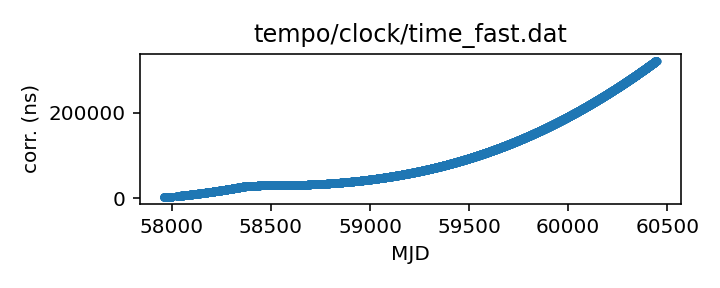
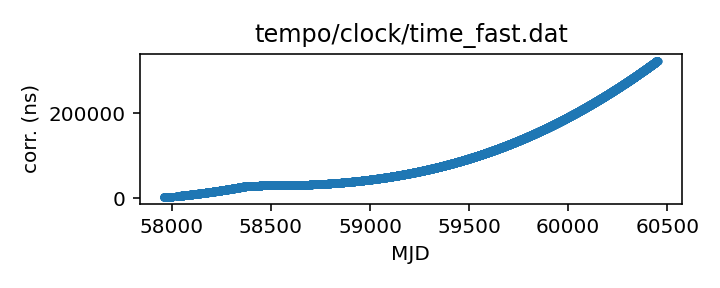
Routine gh-pages update from Github action Fri May 24 20:30:05 UTC 2024

Changed region(s): [[0.3361, 0.0625, 0.7944, 0.1562], [0.0611, 0.3438, 0.1833, 0.4375]]

diff --git a/status.md b/status.md
@@ -13,18 +13,18 @@ name of each clock file links to a page with more details.
 
 | Name | File | Corrections start | Corrections end | Last check date | Last check result 
 |:--- |:--- | --- | --- | --- |:--- 
-| [GPS to UTC](T2runtime/clock/gps2utc.clk.html) | `T2runtime/clock/gps2utc.clk` | 1993-01-01 MJD 48988.0 | 2024-04-29 MJD 60429.0 | 2024-05-23 | Unchanged 
-| [GPS to UTC (Combined Clock)](T2runtime/clock/gps2utc_cc.clk.html) | `T2runtime/clock/gps2utc_cc.clk` | 1993-01-01 MJD 48988.0 | 2024-04-29 MJD 60429.0 | 2024-05-23 | Unchanged 
-| [GPS to UTC (Corrected)](T2runtime/clock/gps2utc_c0p.clk.html) | `T2runtime/clock/gps2utc_c0p.clk` | 2010-12-29 MJD 55559.0 | 2024-04-29 MJD 60429.0 | 2024-05-23 | Unchanged 
-| [GBT](tempo/clock/time_gbt.dat.html) | `tempo/clock/time_gbt.dat` | 2000-12-31 MJD 51909.5 | 2024-05-18 MJD 60448.5 | 2024-05-23 | **Validation failed** 
+| [GPS to UTC](T2runtime/clock/gps2utc.clk.html) | `T2runtime/clock/gps2utc.clk` | 1993-01-01 MJD 48988.0 | 2024-04-29 MJD 60429.0 | 2024-05-24 | Unchanged 
+| [GPS to UTC (Combined Clock)](T2runtime/clock/gps2utc_cc.clk.html) | `T2runtime/clock/gps2utc_cc.clk` | 1993-01-01 MJD 48988.0 | 2024-04-29 MJD 60429.0 | 2024-05-24 | Unchanged 
+| [GPS to UTC (Corrected)](T2runtime/clock/gps2utc_c0p.clk.html) | `T2runtime/clock/gps2utc_c0p.clk` | 2010-12-29 MJD 55559.0 | 2024-04-29 MJD 60429.0 | 2024-05-24 | Unchanged 
+| [GBT](tempo/clock/time_gbt.dat.html) | `tempo/clock/time_gbt.dat` | 2000-12-31 MJD 51909.5 | 2024-05-18 MJD 60448.5 | 2024-05-24 | **Validation failed** 
 | [GBT (TEMPO2 converted from TEMPO)](T2runtime/clock/gbt2gps.clk.html) | `T2runtime/clock/gbt2gps.clk` | 2000-12-31 MJD 51909.5 | 2024-05-18 MJD 60448.5 | 2024-05-19 | Updated 
-| [Jodrell Bank](T2runtime/clock/jb2gps.clk.html) | `T2runtime/clock/jb2gps.clk` | 2006-10-13 MJD 54021.4 | 2023-12-04 MJD 60282.0 | 2024-05-17 | Unchanged 
-| [Jodrell Bank Roach](T2runtime/clock/jbroach2jb.clk.html) | `T2runtime/clock/jbroach2jb.clk` | 2006-10-13 MJD 54021.4 | 2018-03-20 MJD 58197.6 | 2024-05-17 | Unchanged 
-| [Jodrell Bank DFB](T2runtime/clock/jbdfb2jb.clk.html) | `T2runtime/clock/jbdfb2jb.clk` | 2006-10-13 MJD 54021.4 | 2017-05-11 MJD 57884.0 | 2024-05-17 | Unchanged 
-| [Meerkat (observatory)](T2runtime/clock/mk2utc_observatory.clk.html) | `T2runtime/clock/mk2utc_observatory.clk` | 2019-01-01 MJD 58484.0 | 2024-04-24 MJD 60425.0 | 2024-05-17 | Unchanged 
-| [Leap seconds](tempo/clock/leap.sec.html) | `tempo/clock/leap.sec` | 1972-07-01 MJD 41499.0 | 2017-01-01 MJD 57754.0 | 2024-05-23 | Unchanged 
-| [UT1 table](tempo/clock/ut1.dat.html) | `tempo/clock/ut1.dat` | 1973-01-02 MJD 41684.0 | 2025-05-31 MJD 60826.0 | 2024-05-23 | Updated 
-| [UT1 table](T2runtime/clock/ut1.dat.html) | `T2runtime/clock/ut1.dat` | 1973-01-02 MJD 41684.0 | 2025-05-31 MJD 60826.0 | 2024-05-23 | Updated 
+| [Jodrell Bank](T2runtime/clock/jb2gps.clk.html) | `T2runtime/clock/jb2gps.clk` | 2006-10-13 MJD 54021.4 | 2023-12-04 MJD 60282.0 | 2024-05-24 | Unchanged 
+| [Jodrell Bank Roach](T2runtime/clock/jbroach2jb.clk.html) | `T2runtime/clock/jbroach2jb.clk` | 2006-10-13 MJD 54021.4 | 2018-03-20 MJD 58197.6 | 2024-05-24 | Unchanged 
+| [Jodrell Bank DFB](T2runtime/clock/jbdfb2jb.clk.html) | `T2runtime/clock/jbdfb2jb.clk` | 2006-10-13 MJD 54021.4 | 2017-05-11 MJD 57884.0 | 2024-05-24 | Unchanged 
+| [Meerkat (observatory)](T2runtime/clock/mk2utc_observatory.clk.html) | `T2runtime/clock/mk2utc_observatory.clk` | 2019-01-01 MJD 58484.0 | 2024-04-24 MJD 60425.0 | 2024-05-24 | Unchanged 
+| [Leap seconds](tempo/clock/leap.sec.html) | `tempo/clock/leap.sec` | 1972-07-01 MJD 41499.0 | 2017-01-01 MJD 57754.0 | 2024-05-24 | Unchanged 
+| [UT1 table](tempo/clock/ut1.dat.html) | `tempo/clock/ut1.dat` | 1973-01-02 MJD 41684.0 | 2025-05-31 MJD 60826.0 | 2024-05-24 | Unchanged 
+| [UT1 table](T2runtime/clock/ut1.dat.html) | `T2runtime/clock/ut1.dat` | 1973-01-02 MJD 41684.0 | 2025-05-31 MJD 60826.0 | 2024-05-24 | Unchanged 
 
 
 
@@ -67,26 +67,26 @@ name of each clock file links to a page with more details.
 
 | Name | File | Corrections start | Corrections end | Last check date | Last check result 
 |:--- |:--- | --- | --- | --- |:--- 
-| [GPS to UTC (TEMPO2)](T2runtime/clock/gps2utc_tempo2.clk.html) | `T2runtime/clock/gps2utc_tempo2.clk` | 1996-03-27 MJD 50169.0 | 2022-10-27 MJD 59879.0 | 2024-05-17 | **Failed to download** 
-| [GBT (TEMPO2)](T2runtime/clock/gbt2gps_tempo2.clk.html) | `T2runtime/clock/gbt2gps_tempo2.clk` | 2000-12-31 MJD 51909.5 | 2020-02-25 MJD 58904.5 | 2024-05-17 | Unchanged 
-| [Jodrell Bank (TEMPO)](tempo/clock/time_jb.dat.html) | `tempo/clock/time_jb.dat` | 2006-10-13 MJD 54021.4 | 2019-05-13 MJD 58616.2 | 2024-05-17 | Unchanged 
-| [VLA](tempo/clock/time_vla.dat.html) | `tempo/clock/time_vla.dat` | 1990-10-27 MJD 48191.2 | 2021-03-07 MJD 59280.5 | 2024-05-17 | Unchanged 
-| [VLA (TEMPO2)](T2runtime/clock/vla2gps.clk.html) | `T2runtime/clock/vla2gps.clk` | 2015-02-01 MJD 57054.6 | 2021-03-07 MJD 59280.5 | 2024-05-17 | Unchanged 
-| [VLA to NIST](T2runtime/clock/vla2nist.clk.html) | `T2runtime/clock/vla2nist.clk` | 1990-10-27 MJD 48191.2 | 1993-11-13 MJD 49304.0 | 2024-05-17 | Unchanged 
-| [FAST](tempo/clock/time_fast.dat.html) | `tempo/clock/time_fast.dat` | 2017-07-27 MJD 57961.0 | 2024-05-15 MJD 60446.0 | 2024-05-17 | Updated 
-| [WSRT](T2runtime/clock/wsrt2gps.clk.html) | `T2runtime/clock/wsrt2gps.clk` | 1999-01-01 MJD 51179.5 | 2015-06-29 MJD 57202.1 | 2024-05-17 | Unchanged 
-| [WSRT (TEMPO)](tempo/clock/time_wsrt.dat.html) | `tempo/clock/time_wsrt.dat` | 1987-07-24 MJD 47000.0 | 2007-12-24 MJD 54458.0 | 2024-05-17 | **Validation failed** 
-| [Parkes](T2runtime/clock/pks2gps.clk.html) | `T2runtime/clock/pks2gps.clk` | 1858-11-17 MJD 0.0 | 2024-04-30 MJD 60430.1 | 2024-05-17 | Unchanged 
-| [Parkes (TEMPO)](tempo/clock/time_pks.dat.html) | `tempo/clock/time_pks.dat` | 1979-05-07 MJD 44000.0 | 2011-07-03 MJD 55745.8 | 2024-05-17 | **Validation failed** 
-| [SRT](T2runtime/clock/srt2gps.clk.html) | `T2runtime/clock/srt2gps.clk` | 2013-03-20 MJD 56371.0 | 2019-12-11 MJD 58828.0 | 2024-05-17 | Unchanged 
-| [Effelsberg](T2runtime/clock/eff2gps.clk.html) | `T2runtime/clock/eff2gps.clk` | 1993-11-29 MJD 49320.0 | 2015-06-22 MJD 57195.5 | 2024-05-17 | Unchanged 
-| [Effelsberg Asterix/PSRix](T2runtime/clock/effix2gps.clk.html) | `T2runtime/clock/effix2gps.clk` | 2011-01-01 MJD 55562.5 | 2021-03-21 MJD 59294.5 | 2024-05-17 | Unchanged 
-| [LEAP](T2runtime/clock/leap2effix.clk.html) | `T2runtime/clock/leap2effix.clk` | 2012-10-29 MJD 56230.0 | 2014-03-04 MJD 56720.0 | 2024-05-17 | Unchanged 
-| [NUPPI](tempo/clock/time_nuppi.dat.html) | `tempo/clock/time_nuppi.dat` | 2005-03-07 MJD 53436.0 | 2015-11-08 MJD 57334.6 | 2024-05-17 | Unchanged 
-| [Meerkat (TEMPO2)](T2runtime/clock/mk2utc.clk.html) | `T2runtime/clock/mk2utc.clk` | 2019-01-01 MJD 58484.0 | 2023-10-18 MJD 60235.9 | 2024-05-17 | Unchanged 
-| [MOST](T2runtime/clock/mo2gps.clk.html) | `T2runtime/clock/mo2gps.clk` | 2003-12-27 MJD 53000.0 | 2018-09-06 MJD 58367.0 | 2024-05-17 | Unchanged 
-| [Nancay to obspm](T2runtime/clock/ncyobs2obspm.clk.html) | `T2runtime/clock/ncyobs2obspm.clk` | 1988-05-18 MJD 47299.6 | 2023-10-27 MJD 60244.0 | 2024-05-17 | Unchanged 
-| [obspm](T2runtime/clock/obspm2gps.clk.html) | `T2runtime/clock/obspm2gps.clk` | 2003-12-01 MJD 52974.0 | 2023-10-27 MJD 60244.0 | 2024-05-17 | Unchanged 
+| [GPS to UTC (TEMPO2)](T2runtime/clock/gps2utc_tempo2.clk.html) | `T2runtime/clock/gps2utc_tempo2.clk` | 1996-03-27 MJD 50169.0 | 2022-10-27 MJD 59879.0 | 2024-05-24 | **Failed to download** 
+| [GBT (TEMPO2)](T2runtime/clock/gbt2gps_tempo2.clk.html) | `T2runtime/clock/gbt2gps_tempo2.clk` | 2000-12-31 MJD 51909.5 | 2020-02-25 MJD 58904.5 | 2024-05-24 | Unchanged 
+| [Jodrell Bank (TEMPO)](tempo/clock/time_jb.dat.html) | `tempo/clock/time_jb.dat` | 2006-10-13 MJD 54021.4 | 2019-05-13 MJD 58616.2 | 2024-05-24 | Unchanged 
+| [VLA](tempo/clock/time_vla.dat.html) | `tempo/clock/time_vla.dat` | 1990-10-27 MJD 48191.2 | 2021-03-07 MJD 59280.5 | 2024-05-24 | Unchanged 
+| [VLA (TEMPO2)](T2runtime/clock/vla2gps.clk.html) | `T2runtime/clock/vla2gps.clk` | 2015-02-01 MJD 57054.6 | 2021-03-07 MJD 59280.5 | 2024-05-24 | Unchanged 
+| [VLA to NIST](T2runtime/clock/vla2nist.clk.html) | `T2runtime/clock/vla2nist.clk` | 1990-10-27 MJD 48191.2 | 1993-11-13 MJD 49304.0 | 2024-05-24 | Unchanged 
+| [FAST](tempo/clock/time_fast.dat.html) | `tempo/clock/time_fast.dat` | 2017-07-27 MJD 57961.0 | 2024-05-20 MJD 60451.0 | 2024-05-24 | Updated 
+| [WSRT](T2runtime/clock/wsrt2gps.clk.html) | `T2runtime/clock/wsrt2gps.clk` | 1999-01-01 MJD 51179.5 | 2015-06-29 MJD 57202.1 | 2024-05-24 | Unchanged 
+| [WSRT (TEMPO)](tempo/clock/time_wsrt.dat.html) | `tempo/clock/time_wsrt.dat` | 1987-07-24 MJD 47000.0 | 2007-12-24 MJD 54458.0 | 2024-05-24 | **Validation failed** 
+| [Parkes](T2runtime/clock/pks2gps.clk.html) | `T2runtime/clock/pks2gps.clk` | 1858-11-17 MJD 0.0 | 2024-04-30 MJD 60430.1 | 2024-05-24 | Unchanged 
+| [Parkes (TEMPO)](tempo/clock/time_pks.dat.html) | `tempo/clock/time_pks.dat` | 1979-05-07 MJD 44000.0 | 2011-07-03 MJD 55745.8 | 2024-05-24 | **Validation failed** 
+| [SRT](T2runtime/clock/srt2gps.clk.html) | `T2runtime/clock/srt2gps.clk` | 2013-03-20 MJD 56371.0 | 2019-12-11 MJD 58828.0 | 2024-05-24 | Unchanged 
+| [Effelsberg](T2runtime/clock/eff2gps.clk.html) | `T2runtime/clock/eff2gps.clk` | 1993-11-29 MJD 49320.0 | 2015-06-22 MJD 57195.5 | 2024-05-24 | Unchanged 
+| [Effelsberg Asterix/PSRix](T2runtime/clock/effix2gps.clk.html) | `T2runtime/clock/effix2gps.clk` | 2011-01-01 MJD 55562.5 | 2021-03-21 MJD 59294.5 | 2024-05-24 | Unchanged 
+| [LEAP](T2runtime/clock/leap2effix.clk.html) | `T2runtime/clock/leap2effix.clk` | 2012-10-29 MJD 56230.0 | 2014-03-04 MJD 56720.0 | 2024-05-24 | Unchanged 
+| [NUPPI](tempo/clock/time_nuppi.dat.html) | `tempo/clock/time_nuppi.dat` | 2005-03-07 MJD 53436.0 | 2015-11-08 MJD 57334.6 | 2024-05-24 | Unchanged 
+| [Meerkat (TEMPO2)](T2runtime/clock/mk2utc.clk.html) | `T2runtime/clock/mk2utc.clk` | 2019-01-01 MJD 58484.0 | 2023-10-18 MJD 60235.9 | 2024-05-24 | Unchanged 
+| [MOST](T2runtime/clock/mo2gps.clk.html) | `T2runtime/clock/mo2gps.clk` | 2003-12-27 MJD 53000.0 | 2018-09-06 MJD 58367.0 | 2024-05-24 | Unchanged 
+| [Nancay to obspm](T2runtime/clock/ncyobs2obspm.clk.html) | `T2runtime/clock/ncyobs2obspm.clk` | 1988-05-18 MJD 47299.6 | 2023-10-27 MJD 60244.0 | 2024-05-24 | Unchanged 
+| [obspm](T2runtime/clock/obspm2gps.clk.html) | `T2runtime/clock/obspm2gps.clk` | 2003-12-01 MJD 52974.0 | 2023-10-27 MJD 60244.0 | 2024-05-24 | Unchanged 
 
 
 ### Further information:

diff --git a/tempo/clock/time_pks.dat.md b/tempo/clock/time_pks.dat.md
@@ -20,12 +20,11 @@ telescopes in the same file, distinguished only by observatory code.
 | Clock file start | 1979-05-07 MJD 44000.0 |
 | Clock file end | 2011-07-03 MJD 55745.8 |
 | Update interval (days) | 7 |
-| Last update attempt | 2024-05-17 |
+| Last update attempt | 2024-05-24 |
 | Last update result | Validation failed |
 
 Log entries from the last few update attempts:
 ```
-2024-02-29 20:29:37.500 - Validation failed: Unable to read new version of tempo/clock/time_pks.dat: Clock file /tmp/astropy-download-1810-sn87ef0r appears to be out of order: 49959.0 > 49958.0
 2024-03-07 20:30:02.201 - Validation failed: Unable to read new version of tempo/clock/time_pks.dat: Clock file /tmp/astropy-download-1997-a8wm1p2b appears to be out of order: 49959.0 > 49958.0
 2024-03-14 20:29:37.280 - Validation failed: Unable to read new version of tempo/clock/time_pks.dat: Clock file /tmp/astropy-download-1789-i6da_346 appears to be out of order: 49959.0 > 49958.0
 2024-03-21 20:29:48.248 - Validation failed: Unable to read new version of tempo/clock/time_pks.dat: Clock file /tmp/astropy-download-1983-p8p10h_t appears to be out of order: 49959.0 > 49958.0
@@ -35,6 +34,7 @@ Log entries from the last few update attempts:
 2024-04-18 20:29:38.673 - Validation failed: Unable to read new version of tempo/clock/time_pks.dat: Clock file /tmp/astropy-download-1796-c9s0ts7i appears to be out of order: 49959.0 > 49958.0
 2024-05-10 20:29:42.293 - Validation failed: Unable to read new version of tempo/clock/time_pks.dat: Clock file /tmp/astropy-download-1806-pnu0rn0y appears to be out of order: 49959.0 > 49958.0
 2024-05-17 20:29:45.220 - Validation failed: Unable to read new version of tempo/clock/time_pks.dat: Clock file /tmp/astropy-download-1787-teivf2pi appears to be out of order: 49959.0 > 49958.0
+2024-05-24 20:29:37.029 - Validation failed: Unable to read new version of tempo/clock/time_pks.dat: Clock file /tmp/astropy-download-1896-lx9qc25x appears to be out of order: 49959.0 > 49958.0
 ```
 [Full log](https://raw.githubusercontent.com/ipta/pulsar-clock-corrections/main/log/tempo/clock/time_pks.dat.log)
 

diff --git a/tempo/clock/time_wsrt.dat.md b/tempo/clock/time_wsrt.dat.md
@@ -20,12 +20,11 @@ should be the same information.
 | Clock file start | 1987-07-24 MJD 47000.0 |
 | Clock file end | 2007-12-24 MJD 54458.0 |
 | Update interval (days) | 7 |
-| Last update attempt | 2024-05-17 |
+| Last update attempt | 2024-05-24 |
 | Last update result | Validation failed |
 
 Log entries from the last few update attempts:
 ```
-2024-02-29 20:29:32.708 - Validation failed: Unable to read new version of tempo/clock/time_wsrt.dat: Clock file /tmp/astropy-download-1810-gqrpdwt_ appears to be out of order: 53000.05 > 53000.0
 2024-03-07 20:29:57.677 - Validation failed: Unable to read new version of tempo/clock/time_wsrt.dat: Clock file /tmp/astropy-download-1997-9f3c9zsx appears to be out of order: 53000.05 > 53000.0
 2024-03-14 20:29:28.740 - Validation failed: Unable to read new version of tempo/clock/time_wsrt.dat: Clock file /tmp/astropy-download-1789-qmkos7mt appears to be out of order: 53000.05 > 53000.0
 2024-03-21 20:29:42.142 - Validation failed: Unable to read new version of tempo/clock/time_wsrt.dat: Clock file /tmp/astropy-download-1983-7dg1tve1 appears to be out of order: 53000.05 > 53000.0
@@ -35,6 +34,7 @@ Log entries from the last few update attempts:
 2024-04-18 20:29:33.818 - Validation failed: Unable to read new version of tempo/clock/time_wsrt.dat: Clock file /tmp/astropy-download-1796-uswo2pn9 appears to be out of order: 53000.05 > 53000.0
 2024-05-10 20:29:38.436 - Validation failed: Unable to read new version of tempo/clock/time_wsrt.dat: Clock file /tmp/astropy-download-1806-0gvmq99j appears to be out of order: 53000.05 > 53000.0
 2024-05-17 20:29:41.596 - Validation failed: Unable to read new version of tempo/clock/time_wsrt.dat: Clock file /tmp/astropy-download-1787-h7p7w40s appears to be out of order: 53000.05 > 53000.0
+2024-05-24 20:29:31.949 - Validation failed: Unable to read new version of tempo/clock/time_wsrt.dat: Clock file /tmp/astropy-download-1896-o2eimvbo appears to be out of order: 53000.05 > 53000.0
 ```
 [Full log](https://raw.githubusercontent.com/ipta/pulsar-clock-corrections/main/log/tempo/clock/time_wsrt.dat.log)
 

diff --git a/tempo/clock/time_gbt.dat.md b/tempo/clock/time_gbt.dat.md
@@ -33,12 +33,11 @@ If questions arise, contact Ryan S. Lynch <rlynch@nrao.edu>.
 | Clock file start | 2000-12-31 MJD 51909.5 |
 | Clock file end | 2024-05-18 MJD 60448.5 |
 | Update interval (days) | 1 |
-| Last update attempt | 2024-05-23 |
+| Last update attempt | 2024-05-24 |
 | Last update result | Validation failed |
 
 Log entries from the last few update attempts:
 ```
-2024-05-14 20:29:38.845 - Updated
 2024-05-15 20:30:39.553 - Failed to download: HTTP Error 403: Forbidden
 2024-05-16 20:29:39.532 - Updated
 2024-05-17 20:29:37.638 - Updated
@@ -48,6 +47,7 @@ Log entries from the last few update attempts:
 2024-05-21 20:29:32.369 - Validation failed: New version of tempo/clock/time_gbt.dat clock corrections differ from old version where they overlap in 11 places
 2024-05-22 20:29:35.203 - Validation failed: New version of tempo/clock/time_gbt.dat clock corrections differ from old version where they overlap in 11 places
 2024-05-23 20:29:32.917 - Validation failed: New version of tempo/clock/time_gbt.dat clock corrections differ from old version where they overlap in 11 places
+2024-05-24 20:29:28.300 - Validation failed: New version of tempo/clock/time_gbt.dat clock corrections differ from old version where they overlap in 11 places
 ```
 [Full log](https://raw.githubusercontent.com/ipta/pulsar-clock-corrections/main/log/tempo/clock/time_gbt.dat.log)
 

diff --git a/T2runtime/clock/gps2utc_tempo2.clk.md b/T2runtime/clock/gps2utc_tempo2.clk.md
@@ -27,12 +27,11 @@ are from the column C0').
 | Clock file start | 1996-03-27 MJD 50169.0 |
 | Clock file end | 2022-10-27 MJD 59879.0 |
 | Update interval (days) | 7 |
-| Last update attempt | 2024-05-17 |
+| Last update attempt | 2024-05-24 |
 | Last update result | Failed to download |
 
 Log entries from the last few update attempts:
 ```
-2024-02-29 20:29:05.465 - Unchanged
 2024-03-07 20:29:25.315 - Unchanged
 2024-03-14 20:29:07.069 - Unchanged
 2024-03-21 20:29:14.689 - Unchanged
@@ -42,6 +41,7 @@ Log entries from the last few update attempts:
 2024-04-18 20:29:11.360 - Unchanged
 2024-05-10 20:29:02.475 - Failed to download: HTTP Error 404: Not Found
 2024-05-17 20:29:05.507 - Failed to download: HTTP Error 404: Not Found
+2024-05-24 20:29:09.014 - Failed to download: HTTP Error 404: Not Found
 ```
 [Full log](https://raw.githubusercontent.com/ipta/pulsar-clock-corrections/main/log/T2runtime/clock/gps2utc_tempo2.clk.log)
 

diff --git a/tempo/clock/time_fast.dat.md b/tempo/clock/time_fast.dat.md
@@ -14,14 +14,13 @@ This file is pulled from the FAST_ClockFile repository.
 | Format | tempo |
 | Bogus last correction | False |
 | Clock file start | 2017-07-27 MJD 57961.0 |
-| Clock file end | 2024-05-15 MJD 60446.0 |
+| Clock file end | 2024-05-20 MJD 60451.0 |
 | Update interval (days) | 7 |
-| Last update attempt | 2024-05-17 |
+| Last update attempt | 2024-05-24 |
 | Last update result | Updated |
 
 Log entries from the last few update attempts:
 ```
-2024-02-29 20:29:31.485 - Updated
 2024-03-07 20:29:57.010 - Updated
 2024-03-14 20:29:28.347 - Updated
 2024-03-21 20:29:41.522 - Updated
@@ -31,6 +30,7 @@ Log entries from the last few update attempts:
 2024-04-18 20:29:33.141 - Updated
 2024-05-10 20:29:37.535 - Updated
 2024-05-17 20:29:40.999 - Updated
+2024-05-24 20:29:31.229 - Updated
 ```
 [Full log](https://raw.githubusercontent.com/ipta/pulsar-clock-corrections/main/log/tempo/clock/time_fast.dat.log)
 

diff --git a/T2runtime/clock/mk2utc_observatory.clk.md b/T2runtime/clock/mk2utc_observatory.clk.md
@@ -21,12 +21,11 @@ If questions arise, contact Ryan Shannon <rshannon@swin.edu.au>
 | Clock file start | 2019-01-01 MJD 58484.0 |
 | Clock file end | 2024-04-24 MJD 60425.0 |
 | Update interval (days) | 7 |
-| Last update attempt | 2024-05-17 |
+| Last update attempt | 2024-05-24 |
 | Last update result | Unchanged |
 
 Log entries from the last few update attempts:
 ```
-2024-02-29 20:29:42.096 - Unchanged
 2024-03-07 20:30:06.819 - Unchanged
 2024-03-14 20:29:41.493 - Unchanged
 2024-03-21 20:29:53.172 - Unchanged
@@ -36,6 +35,7 @@ Log entries from the last few update attempts:
 2024-04-18 20:29:46.133 - Updated
 2024-05-10 20:29:48.819 - Updated
 2024-05-17 20:29:50.578 - Unchanged
+2024-05-24 20:29:41.581 - Unchanged
 ```
 [Full log](https://raw.githubusercontent.com/ipta/pulsar-clock-corrections/main/log/T2runtime/clock/mk2utc_observatory.clk.log)
 

diff --git a/T2runtime/clock/gps2utc_c0p.clk.md b/T2runtime/clock/gps2utc_c0p.clk.md
@@ -30,12 +30,11 @@ about the BIPM's published corrections, contact <tai@bipm.org>.
 | Clock file start | 2010-12-29 MJD 55559.0 |
 | Clock file end | 2024-04-29 MJD 60429.0 |
 | Update interval (days) | 1 |
-| Last update attempt | 2024-05-23 |
+| Last update attempt | 2024-05-24 |
 | Last update result | Unchanged |
 
 Log entries from the last few update attempts:
 ```
-2024-05-14 20:29:37.944 - Updated
 2024-05-15 20:30:39.213 - Unchanged
 2024-05-16 20:29:38.905 - Unchanged
 2024-05-17 20:29:36.800 - Unchanged
@@ -45,6 +44,7 @@ Log entries from the last few update attempts:
 2024-05-21 20:29:31.762 - Unchanged
 2024-05-22 20:29:34.408 - Unchanged
 2024-05-23 20:29:32.587 - Unchanged
+2024-05-24 20:29:27.908 - Unchanged
 ```
 [Full log](https://raw.githubusercontent.com/ipta/pulsar-clock-corrections/main/log/T2runtime/clock/gps2utc_c0p.clk.log)
 

diff --git a/T2runtime/clock/gps2utc_cc.clk.md b/T2runtime/clock/gps2utc_cc.clk.md
@@ -29,12 +29,11 @@ about the BIPM's published corrections, contact <tai@bipm.org>.
 | Clock file start | 1993-01-01 MJD 48988.0 |
 | Clock file end | 2024-04-29 MJD 60429.0 |
 | Update interval (days) | 1 |
-| Last update attempt | 2024-05-23 |
+| Last update attempt | 2024-05-24 |
 | Last update result | Unchanged |
 
 Log entries from the last few update attempts:
 ```
-2024-05-14 20:29:37.917 - Updated
 2024-05-15 20:30:39.204 - Unchanged
 2024-05-16 20:29:38.896 - Unchanged
 2024-05-17 20:29:36.791 - Unchanged
@@ -44,6 +43,7 @@ Log entries from the last few update attempts:
 2024-05-21 20:29:31.753 - Unchanged
 2024-05-22 20:29:34.399 - Unchanged
 2024-05-23 20:29:32.577 - Unchanged
+2024-05-24 20:29:27.898 - Unchanged
 ```
 [Full log](https://raw.githubusercontent.com/ipta/pulsar-clock-corrections/main/log/T2runtime/clock/gps2utc_cc.clk.log)
 

diff --git a/T2runtime/clock/gps2utc.clk.md b/T2runtime/clock/gps2utc.clk.md
@@ -32,12 +32,11 @@ about the BIPM's published corrections, contact <tai@bipm.org>.
 | Clock file start | 1993-01-01 MJD 48988.0 |
 | Clock file end | 2024-04-29 MJD 60429.0 |
 | Update interval (days) | 1 |
-| Last update attempt | 2024-05-23 |
+| Last update attempt | 2024-05-24 |
 | Last update result | Unchanged |
 
 Log entries from the last few update attempts:
 ```
-2024-05-14 20:29:37.853 - Updated
 2024-05-15 20:30:39.179 - Unchanged
 2024-05-16 20:29:38.870 - Unchanged
 2024-05-17 20:29:36.765 - Unchanged
@@ -47,6 +46,7 @@ Log entries from the last few update attempts:
 2024-05-21 20:29:31.728 - Unchanged
 2024-05-22 20:29:34.374 - Unchanged
 2024-05-23 20:29:32.550 - Unchanged
+2024-05-24 20:29:27.871 - Unchanged
 ```
 [Full log](https://raw.githubusercontent.com/ipta/pulsar-clock-corrections/main/log/T2runtime/clock/gps2utc.clk.log)
 

diff --git a/T2runtime/clock/ncyobs2obspm.clk.md b/T2runtime/clock/ncyobs2obspm.clk.md
@@ -22,12 +22,11 @@ thus here) can be expected to be somewhat up to date.
 | Clock file start | 1988-05-18 MJD 47299.6 |
 | Clock file end | 2023-10-27 MJD 60244.0 |
 | Update interval (days) | 7 |
-| Last update attempt | 2024-05-17 |
+| Last update attempt | 2024-05-24 |
 | Last update result | Unchanged |
 
 Log entries from the last few update attempts:
 ```
-2024-02-28 20:29:44.014 - Unchanged
 2024-03-06 20:29:28.782 - Unchanged
 2024-03-13 20:29:17.034 - Unchanged
 2024-03-20 20:29:34.302 - Unchanged
@@ -37,6 +36,7 @@ Log entries from the last few update attempts:
 2024-04-17 20:29:17.628 - Unchanged
 2024-05-10 20:29:51.147 - Unchanged
 2024-05-17 20:29:52.144 - Unchanged
+2024-05-24 20:29:42.191 - Unchanged
 ```
 [Full log](https://raw.githubusercontent.com/ipta/pulsar-clock-corrections/main/log/T2runtime/clock/ncyobs2obspm.clk.log)
 

diff --git a/tempo/clock/ut1.dat.md b/tempo/clock/ut1.dat.md
@@ -30,12 +30,11 @@ If there are any questions, contact Anne Archibald
 | File start | 1973-01-02 MJD 41684.0 |
 | File end | 2025-05-31 MJD 60826.0 |
 | Update interval (days) | 0 |
-| Last update attempt | 2024-05-23 |
-| Last update result | Updated |
+| Last update attempt | 2024-05-24 |
+| Last update result | Unchanged |
 
 Log entries from the last few update attempts:
 ```
-2024-05-14 20:29:51.927 - Unchanged
 2024-05-15 20:30:48.501 - Unchanged
 2024-05-16 20:29:47.997 - Updated
 2024-05-17 20:30:06.468 - Unchanged
@@ -45,5 +44,6 @@ Log entries from the last few update attempts:
 2024-05-21 20:29:41.736 - Unchanged
 2024-05-22 20:29:47.142 - Unchanged
 2024-05-23 20:29:40.911 - Updated
+2024-05-24 20:29:49.626 - Unchanged
 ```
 [Full log](https://raw.githubusercontent.com/ipta/pulsar-clock-corrections/main/log/tempo/clock/ut1.dat.log)
